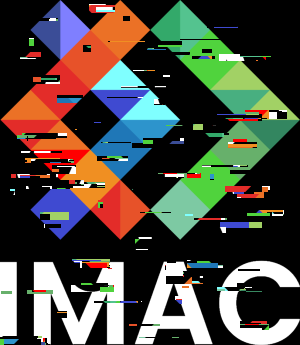
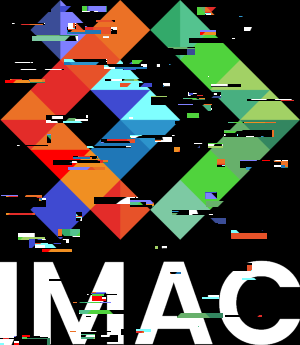
debut readme et autre truc convulsion

diff --git a/src/main_lison.cpp b/src/main_lison.cpp
@@ -553,18 +553,18 @@ void main_lison()
     sil::Image logo {"images/logo.png"};
     sil::Image image {logo};
     std::vector<std::vector<float>> kernel {
-        {-1.f, -1.f, -1.f},
-        {-1.f, 8.f, -1.f},
-        {-1.f, -1.f, -1.f}
+        {1.f/9.f, 1.f/9.f, 1.f/9.f},
+        {1.f/9.f, 1.f/9.f, 1.f/9.f},
+        {1.f/9.f, 1.f/9.f, 1.f/9.f}
     };
-    float Total{0};
-    for (std::vector<float> line : kernel)
-    {
-        for (float nb : line)
-        {
-            Total += nb;
-        }
-    }
+    // float Total{0};
+    // for (std::vector<float> line : kernel)
+    // {
+    //     for (float nb : line)
+    //     {
+    //         Total += nb;
+    //     }
+    // }
     int coordx {0};
     int coordy {0};
     for(int x {0}; x<image.width(); x++){
@@ -575,16 +575,16 @@ void main_lison()
                     coordx = x+i;
                     coordy = y+i;
                     if(coordx>0 && coordx<image.width() && coordy>0 && coordy<image.height() && j+static_cast<int>(kernel[0].size())/2<kernel[0].size() && i+static_cast<int>(kernel.size())/2<kernel.size()){ //
-                        couleur = image.pixel(coordx, coordy)*kernel[i][j];   //+static_cast<int>(kernel.size())/2    //+static_cast<int>(kernel[0].size())/2
+                        couleur = logo.pixel(coordx, coordy)*kernel[i+static_cast<int>(kernel.size())/2][j+static_cast<int>(kernel[0].size())/2];   //+static_cast<int>(kernel.size())/2    //+static_cast<int>(kernel[0].size())/2
                     }
                     else {
                         image.pixel(x, y) += glm::vec3(0); 
                     }
                 }
             }
-            if(Total!=0){
-                couleur=couleur/Total;
-            }
+            // if(Total!=0){
+            //     couleur=couleur/Total;
+            // }
             image.pixel(x, y) = couleur;
         }
     }

diff --git a/README.md b/README.md
@@ -1,3 +1,100 @@
-# 🐣 S1 | Prog: Workshop
 
-Template de projet pour le workshop de prog des Imac1. Vous trouverez le sujet ici: https://dsmte.github.io/Learn--cpp_programming/Workshop
+##Ne garder que le vert
+![image](./images/logo.png)
+![image](./output_l/tout_en_vert.png)
+
+##Échanger les canaux
+![image](./images/logo.png)
+![image](./output_l/canaux_echanges.png)
+
+##Noir & Blanc
+![image](./images/logo.png)
+![image](./output_l/noir_et_blanc.png)
+
+##Négatif
+![image](./images/logo.png)
+![image](./output_l/negatif.png)
+
+##Dégradé
+![image](./output_l/degrade.png)
+Le calcul a pris un peu de temps à être trouvé, mais c'est :
+'''cpp
+float color = static_cast<float>(i) /(image.width()-1);
+image.pixel(i, y) += color;
+'''
+
+##Miroir
+![image](./images/logo.png)
+![image](./output_l/miroir.png)
+Nous avons eu deux façon de faire :
+'''cpp
+std::swap(image.pixel(i, y), image.pixel(image.width()-1-i, y));
+'''
+ou avec une fonction MiroirV2
+'''cpp
+int miroir = image.width()-x;
+imageInverse.pixel(miroir, y) = image.pixel(x, y);
+'''
+
+##Image bruitée
+![image](./images/logo.png)
+![image](./output_l/bruitee.png)
+Pour cet effet là, nous avons fait en sorte d'avoir des coordonnées de pixels random, et ensuite nous avons fait de même pour chaque partie de la couleur du pixel en question.
+
+##Rotation 90°
+![image](./images/logo.png)
+![image](./output_l/rotation_90.png)
+Nous avons créer une nouvelle image en inversant les valeur de width et de height. Puis nous avons recopier l'image à partir des bonnes coordonnées.
+
+##RGB Split
+![image](./images/logo.png)
+![image](./output_l/rgb_split.png)
+Voir le code.
+
+##Luminosité
+Pour l'éclaircissement :
+![image](./images/photo_faible_contraste.jpg)
+![image](./output_l/photo_apres_eclaircissement.jpg)
+
+Pour l'assombrissement :
+![image](./output_l/photo_apres_assombrissement.jpg)
+
+Pour les deux nous avons utilisé la fonction pow(), avec différentes valeurs de puissance.
+
+##Disque
+![image](./output_l/disque.png)
+Dans le if pour colorer les bon pixels, nous avons utilisé :
+'''cpp
+std::pow(i - image.width()/2, 2) + std::pow(j - image.height()/2, 2) <= std::pow(100, 2);
+'''
+
+##Cercle
+![image](./output_l/cercle.png)
+Nous avons utilisé deux fois le même if que pour le disque, juste avec des valeurs différentes.
+
+##Rosace
+![image](./output_l/rosace.png)
+Nous avons recréer une fonction dessine_cercle, que l'on a appeler plusieurs fois, pour dessiner les different cercles de la rosace.
+
+##Mosaïque
+![image](./images/logo.png)
+![image](./output_l/rotation_90.png)
+
+##Mosaïque miroir
+![image](./images/logo.png)
+![image](./output_l/mosaique_miroir_autre.png)
+![image](./output_l/mosaique_miroir.png)
+
+##Glitch
+![image](./images/logo.png)
+![image](./output_l/glitch_2.png)
+![image](./output_l/glitch.png)
+
+##Fractale de Mandelbrot
+![image](./output_l/fractale_mandelbrot.png)
+
+##Vortex
+##Tramage
+##Normalisation de l'histogramme
+##Convolution (et essais de netteté)
+##Tri de pixels
